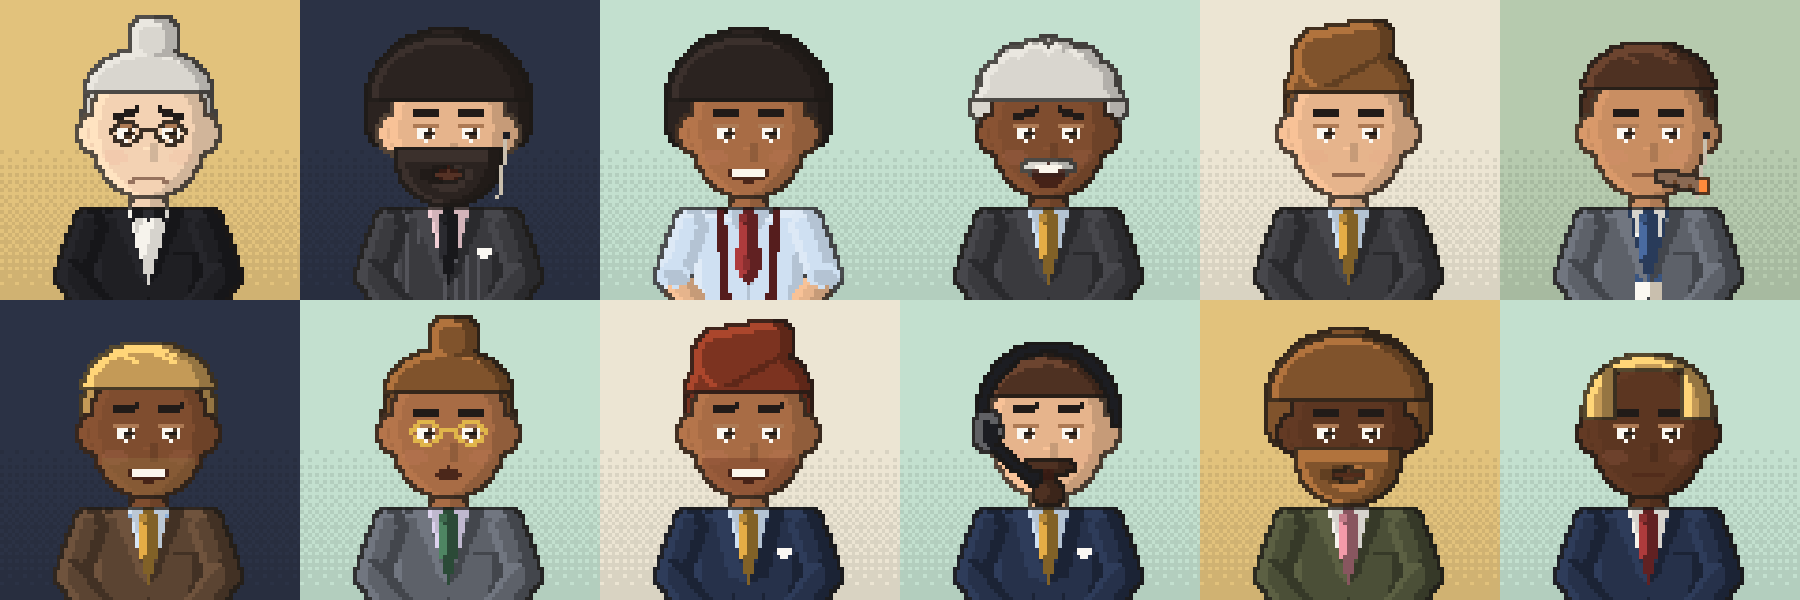
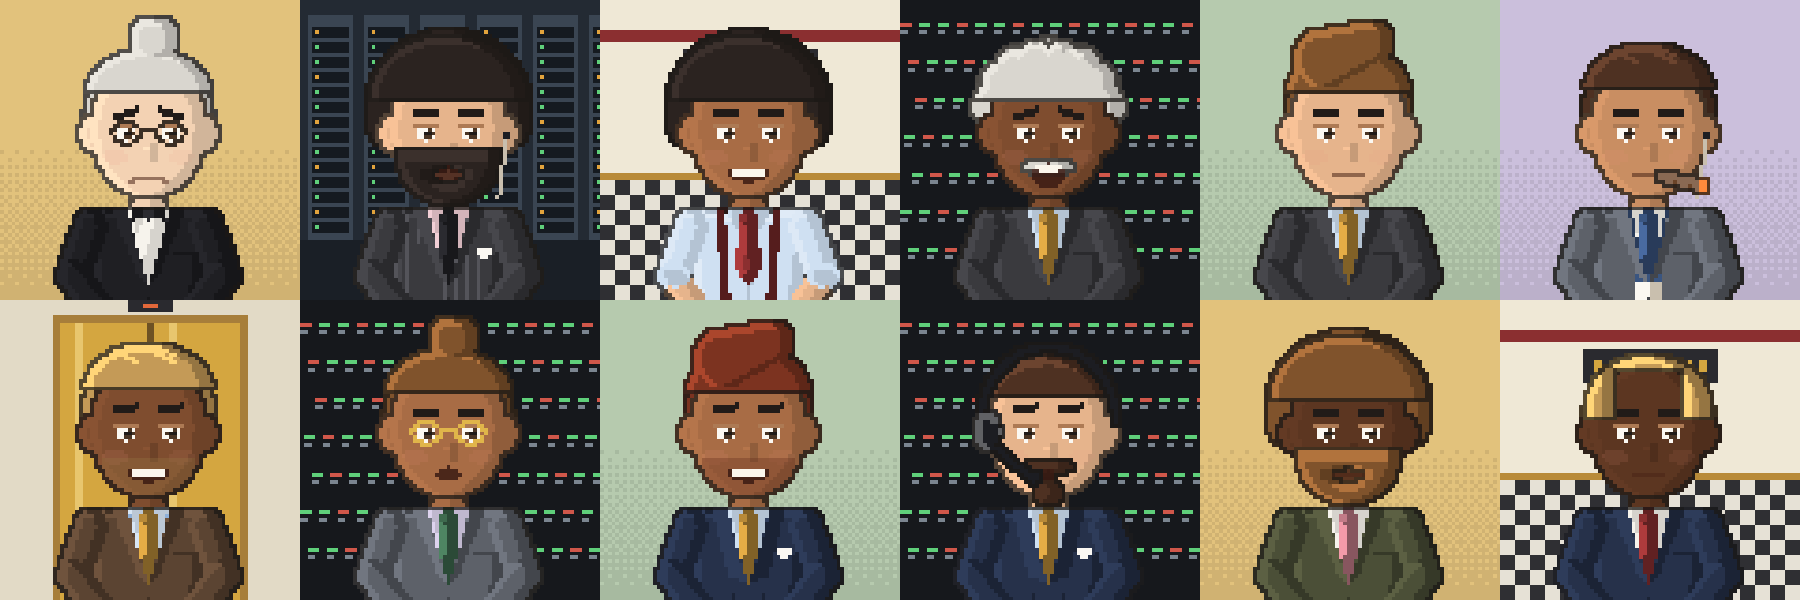
Add building rooms as NFT backgrounds
Six background layers drawn from the building (trading floor, corner
office, lobby, ticker wall, server room, elevator), weighted rarer than
the plain colours in RARITY.md.

Claude-Session: https://claude.ai/code/session_01LdV1XKV4toobn6gdWAhJmP

diff --git a/scripts/nft-layers.art.ts b/scripts/nft-layers.art.ts
@@ -136,6 +136,107 @@ function stubble(hc: number): SpriteImage {
   return { w: G, h: G, px };
 }
 
+// ---------------------------------------------------------------- building backgrounds
+
+type Put = (x: number, y: number, w: number, h: number, hex: string) => void;
+
+function scene(draw: (r: Put, px: Uint32Array) => void): SpriteImage {
+  const px = new Uint32Array(G * G);
+  const r: Put = (x, y, w, h, hex) => {
+    const c = rgba(hex);
+    for (let j = Math.max(0, y); j < Math.min(G, y + h); j++) for (let i = Math.max(0, x); i < Math.min(G, x + w); i++) px[j * G + i] = c;
+  };
+  draw(r, px);
+  return { w: G, h: G, px };
+}
+
+/** Backgrounds taken from rooms in the building. Names start with the room. */
+const SCENES: [string, (r: Put, px: Uint32Array) => void][] = [
+  [
+    'trading-floor',
+    (r) => {
+      r(0, 0, G, G, '#e9e2cf');
+      r(0, 44, G, 2, '#c9bfa6');
+      for (let x = 2; x < G; x += 19) {
+        r(x, 18, 16, 12, '#22262c');
+        r(x + 1, 19, 14, 10, '#17331f');
+        for (let k = 0; k < 4; k++) r(x + 2 + k * 3, 26 - ((x + k * 5) % 6), 2, 1, k % 2 ? '#d0574a' : '#5fcf7a');
+        r(x + 7, 30, 2, 3, '#22262c');
+      }
+      r(0, 33, G, 4, '#6b4a33');
+      r(0, 37, G, 1, '#4e3424');
+    },
+  ],
+  [
+    'corner-office',
+    (r) => {
+      r(0, 0, G, G, '#3d2c22');
+      r(8, 6, 64, 50, '#9cc3dc');
+      const towers = [[10, 30, 8], [19, 22, 7], [27, 34, 9], [37, 18, 8], [46, 28, 10], [57, 24, 7], [64, 32, 8]];
+      for (const [x, y, w] of towers) {
+        r(x, y, w, 56 - y, '#5e7286');
+        for (let j = y + 2; j < 54; j += 3) for (let i = x + 1; i < x + w - 1; i += 2) r(i, j, 1, 1, '#d9e6ee');
+      }
+      for (let y = 8; y < 56; y += 4) r(8, y, 64, 1, '#c7dbe8');
+      r(8, 6, 64, 2, '#2a1e17');
+      r(39, 6, 2, 50, '#2a1e17');
+      r(0, 56, G, G - 56, '#6b4a33');
+    },
+  ],
+  [
+    'lobby',
+    (r) => {
+      r(0, 0, G, G, '#efe8d6');
+      r(0, 8, G, 3, '#8b2f30');
+      r(22, 13, 36, 9, '#2a2a2f');
+      for (let i = 0; i < 8; i++) r(25 + i * 4, 16, 2, 3, '#d4a640');
+      for (let y = 48; y < G; y += 4) for (let x = 0; x < G; x += 4) r(x, y, 4, 4, ((x + y) / 4) % 2 ? '#2f2f33' : '#e6e1d6');
+      r(0, 46, G, 2, '#b88a38');
+    },
+  ],
+  [
+    'ticker-wall',
+    (r) => {
+      r(0, 0, G, G, '#16181c');
+      for (let row = 0; row < 7; row++) {
+        const y = 6 + row * 10;
+        for (let x = (row * 7) % 5; x < G; x += 5) {
+          const up = (x * 7 + row * 13) % 3 !== 0;
+          r(x, y, 3, 1, up ? '#5fcf7a' : '#d0574a');
+          r(x, y + 2, 2, 1, '#7b8590');
+        }
+      }
+    },
+  ],
+  [
+    'server-room',
+    (r) => {
+      r(0, 0, G, G, '#232a33');
+      for (let x = 2; x < G; x += 15) {
+        r(x, 4, 12, 60, '#3a4552');
+        for (let y = 7; y < 62; y += 4) {
+          r(x + 1, y, 10, 3, '#151a20');
+          r(x + 2, y + 1, 1, 1, (x + y) % 3 ? '#5fcf7a' : '#e2a33c');
+        }
+      }
+      r(0, 64, G, G - 64, '#1a1f26');
+    },
+  ],
+  [
+    'elevator',
+    (r) => {
+      r(0, 0, G, G, '#e2dac6');
+      r(14, 4, 52, G, '#a77e3a');
+      r(16, 6, 23, G, '#d4a640');
+      r(41, 6, 23, G, '#d4a640');
+      r(39, 6, 2, G, '#6e5224');
+      for (const x of [20, 45]) r(x, 6, 2, G, '#e8c66e');
+      r(34, 0, 12, 3, '#2a2a2f');
+      r(38, 1, 4, 1, '#e2683a');
+    },
+  ],
+];
+
 /** Lips and mouth lines become see-through dark, so one expression suits every skin. */
 function adaptMouth(img: SpriteImage, skinHex: string) {
   const lips = rgba(shade(skinHex, -0.22));
@@ -159,6 +260,7 @@ it('nft layers', () => {
   };
 
   for (const [name, hex] of BACKGROUNDS) add('01-background', name, backgroundLayer(hex));
+  for (const [name, draw] of SCENES) add('01-background', name, scene(draw));
 
   HAIRS.forEach((_, hc) =>
     HAIR_STYLE_NAMES.forEach((style, hs) => {

diff --git a/nft/RARITY.md b/nft/RARITY.md
@@ -3,16 +3,24 @@
 The weights are percentages within each trait. Change them freely. With these numbers, 1,111 Investors come out unique without any re-rolls: there are well over a hundred million combinations.
 
 ## Background
+Plain colours are common; rooms from the building are rarer.
+
 | Option | Weight |
 |---|---|
-| paper | 18 |
-| brass | 16 |
-| ledger-green | 16 |
-| pink-paper | 14 |
-| brick | 12 |
-| lilac | 10 |
-| mint | 10 |
-| after-hours | 4 (rare) |
+| paper | 14 |
+| brass | 12 |
+| ledger-green | 12 |
+| pink-paper | 10 |
+| brick | 9 |
+| lilac | 8 |
+| mint | 8 |
+| trading-floor | 6 |
+| lobby | 5 |
+| elevator | 4 |
+| ticker-wall | 4 |
+| corner-office | 3 |
+| server-room | 3 |
+| after-hours | 2 (rarest) |
 
 ## Skin (neck + head)
 skin-1 to skin-6: about 16.7 each.

diff --git a/nft/README.md b/nft/README.md
@@ -10,7 +10,7 @@ Stack one file from each folder, lowest number at the bottom:
 
 | # | Folder | Required | Options |
 |---|---|---|---|
-| 1 | `01-background` | yes | 8 |
+| 1 | `01-background` | yes | 14 (8 colours, 6 rooms from the building) |
 | 2 | `02-hair-back` | when it exists | matches the hair |
 | 3 | `03-neck` | yes | 6 skins |
 | 4 | `04-outfit` | yes | 16 |
